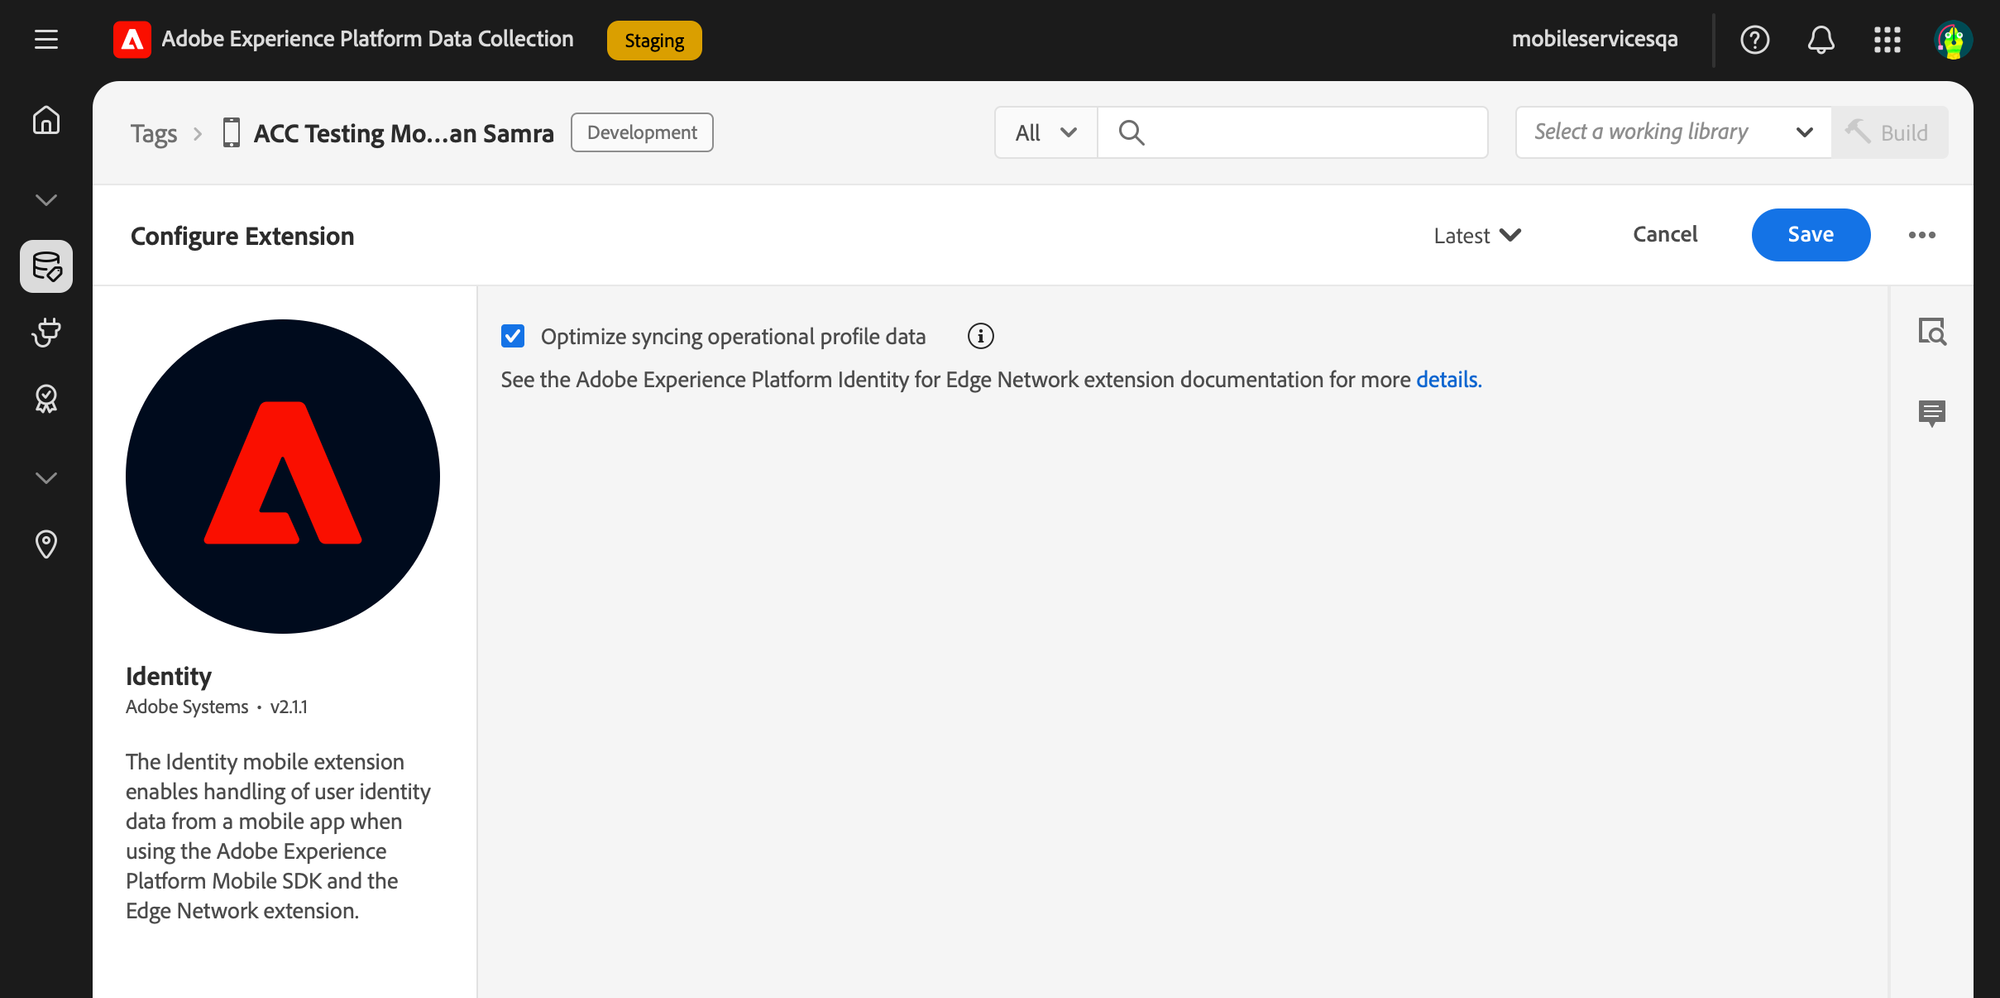
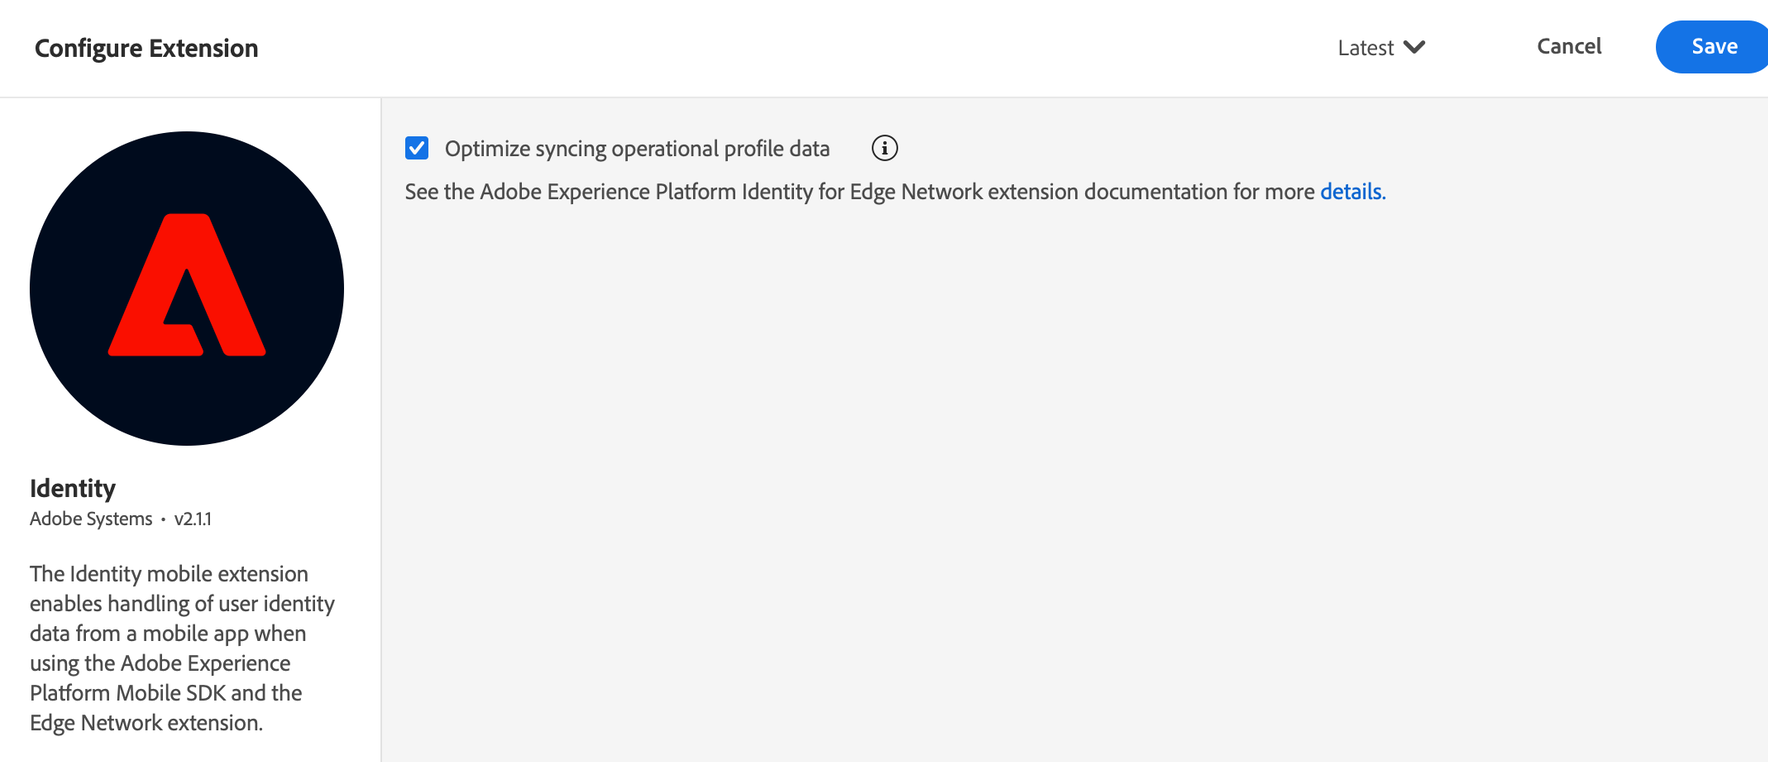
Make operational data docs customer-facing for the 2.1.1 release
Quote the shipped Identity tooltip and action copy, drop draft and negation notes, and replace the screenshots with cropped extension panels.

diff --git a/src/pages/edge/identity-for-edge-network/index.md b/src/pages/edge/identity-for-edge-network/index.md
@@ -17,31 +17,25 @@ Use the Identity for Edge Network extension when including the Edge Network exte
 
 1. In Data Collection UI, in your mobile property, select the **Extensions** tab.
 2. On the **Catalog** tab, locate or search for the **Identity** extension, and select **Install**.
-3. Starting with Tags extension version 2.1.1, select or clear **Optimize syncing operational profile data**. For details, see [Optimize syncing operational profile data](#optimize-syncing-operational-profile-data).
+3. Select or clear **Optimize syncing operational profile data**. The setting is selected by default. For details, see [Optimize syncing operational profile data](#optimize-syncing-operational-profile-data).
 4. Select **Save**.
 5. Follow the publishing process to update SDK configuration.
 
-![Identity for Edge Network extension configuration with the Optimize syncing operational profile data setting](./assets/index/configuration.png)
+![Identity for Edge Network extension configuration](./assets/index/configuration.png)
 
 ### Optimize syncing operational profile data
 
-Starting with Identity Tags extension version 2.1.1, the **Optimize syncing operational profile data** setting saves the boolean `edgeidentity.optimizeOperationalProfileDataSync` configuration key. The Tags UI selects the setting by default when no value has been saved. That Tags default is `true`. An explicitly saved `false` stays cleared.
+Identity Tags extension version 2.1.1 adds **Optimize syncing operational profile data**. The setting saves the boolean `edgeidentity.optimizeOperationalProfileDataSync` configuration key. The Tags UI selects the setting by default.
 
-<InlineAlert variant="info" slots="text"/>
-
-Version 2.1.1 is an unreleased Tags extension update, not an Android or iOS SDK version. Supporting SDK versions and the SDK's default and optimized-sync behavior must be confirmed before this documentation is published.
-
-<InlineAlert variant="info" slots="text"/>
-
-Earlier Identity Tags extensions had no configuration view. On the **Extensions** tab, explicitly upgrade the installed Identity extension to the configuration-bearing package, configure it, and select **Save**. Include the updated extension revision in your library before building. Reuploading a development package does not update an existing installation's configuration metadata. If the configuration still displays **No configuration necessary**, selecting **Save** alone will not repair the installation; contact support to check the installed extension metadata.
+The setting tooltip says: "When enabled, sync calls are optimized to avoid redundant edge API calls."
 
 #### Mobile SDK configuration APIs
 
-With an SDK version that supports this configuration key, you can also set it from your app using the [MobileCore.updateConfiguration](../../home/base/mobile-core/configuration/api-reference.md#updateconfiguration) API:
+You can also set the key from your app with the [MobileCore.updateConfiguration](../../home/base/mobile-core/configuration/api-reference.md#updateconfiguration) API:
 
 | Key | Required | Description | Data Type | Operating System |
 | :--- | :--- | :--- | :--- | :--- |
-| edgeidentity.optimizeOperationalProfileDataSync | No | Enables or disables operational-profile-data sync optimization. The Tags UI initializes this setting to `true`. SDK runtime behavior and minimum supporting versions require confirmation before release. | Boolean | Android/iOS |
+| edgeidentity.optimizeOperationalProfileDataSync | No | When enabled, sync calls are optimized to avoid redundant edge API calls. The Tags UI selects this setting by default. | Boolean | Android/iOS |
 
 ##### Android
 
@@ -61,31 +55,27 @@ MobileCore.updateConfigurationWith(configDict: config)
 
 Identity Tags extension version 2.1.1 adds **Sync Operational Data** under the **Attributes** event category in the rule builder. Select **Identity** as the event extension, then select **Sync Operational Data**. The event has no additional configuration.
 
-The event matches SDK events with type `com.adobe.eventType.generic.operationalData` and source `com.adobe.eventSource.requestContent`. Pair it with [Forward Operational Data to Edge Network](#forward-operational-data-to-edge-network) to configure the operational fields to forward.
-
-The Tags rule does not generate device values. An SDK version that emits this event and processes the action's path-based contract is required.
+The event matches SDK events with type `com.adobe.eventType.generic.operationalData` and source `com.adobe.eventSource.requestContent`. Pair it with [Forward Operational Data to Edge Network](#forward-operational-data-to-edge-network) to choose the operational fields to forward.
 
 ## Forward Operational Data to Edge Network
 
-Identity Tags extension version 2.1.1 adds **Forward Operational Data to Edge Network** to the rule builder. The action configures which operational fields a supporting SDK forwards to the Edge Network, including before consent is granted. It does not supply device values.
-
-The action is on Identity, not on the Edge Network extension. Edge Identity can dedupe and commit the operational data before Edge sends it.
+Identity Tags extension version 2.1.1 adds **Forward Operational Data to Edge Network**. The action says: "Forwards the selected operational data to the Edge Network. App ID and platform are always included."
 
 1. Add the [Sync Operational Data event](#sync-operational-data-rule-event) to your rule.
 2. Add an action, select **Identity**, then select **Forward Operational Data to Edge Network**.
 3. Select the fields to forward:
 
-| Setting | Initial selection | Backend paths |
+| Setting | Initial selection | Description |
 | :--- | :--- | :--- |
-| Timezone | Selected | `["timezone"]` |
-| Push token | Not selected | `["tokens", "pushNotification"]` |
-| Live Activity tokens | Not selected | `["tokens", "liveActivityStart"]` and `["tokens", "liveActivityUpdate"]` |
+| Timezone | Selected | The device time zone, so messages can be timed to the user's local hours. |
+| Push token | Not selected | The device push token, used to deliver push notifications to this device. |
+| Live Activity tokens | Not selected | The tokens that start and update Live Activities on the device's lock screen and Dynamic Island. Live Activity tokens are for iOS only. Android uses the regular push token; these fields do not apply. |
 
 4. Save the action and include the updated rule and extension revisions in your library.
 
 ![Forward Operational Data to Edge Network action configuration](./assets/index/forward-operational-data.png)
 
-One **Live Activity tokens** checkbox controls both token paths. Live Activity tokens apply to iOS only; Android uses the regular push token. App ID and platform are always included through the `["app"]` context. Saving with no fields selected is valid.
+One **Live Activity tokens** checkbox controls both the start and update token paths. Saving with no fields selected is valid.
 
 For example, selecting Timezone and Push token saves this action configuration:
 
@@ -105,13 +95,7 @@ For example, selecting Timezone and Push token saves this action configuration:
 }
 ```
 
-Tags supplies the outer consequence type, `forward-operational-data`, from the action definition. All four attribute entries are saved, including disabled entries. A selection that has no value is saved as `enabled: false`, not `null`. The SDK uses the backend paths to find values in the incoming event.
-
-<InlineAlert variant="info" slots="text"/>
-
-Version 2.1.1 is an unreleased Tags extension update, not an Android or iOS SDK version. Minimum SDK versions supporting the event and path-based action contract must be confirmed before this documentation is published. Uploading the Tags extension alone does not implement SDK delivery.
-
-If you tested an earlier development version of this action, including one saved on the Edge Network extension, open and resave it on Identity to migrate interim token-template or boolean settings to the path-based contract. Reuploading an extension package does not rewrite saved rules.
+Unchecked fields remain in the saved configuration as `enabled: false`. The SDK uses these paths to read values from the incoming operational-data event.
 
 ## Add the Identity For Edge Network extension to your app
 

diff --git a/src/pages/edge/identity-for-edge-network/release-notes.md b/src/pages/edge/identity-for-edge-network/release-notes.md
@@ -9,18 +9,15 @@ keywords:
 
 # Release notes
 
-## Unreleased
+## October 19, 2026
 
 ### Identity Tags extension 2.1.1
 
-* Adds **Optimize syncing operational profile data**, saved as the boolean `edgeidentity.optimizeOperationalProfileDataSync` configuration key. The Tags UI selects it by default.
+* Adds **Optimize syncing operational profile data**, saved as the boolean `edgeidentity.optimizeOperationalProfileDataSync` configuration key. The Tags UI selects it by default. When enabled, sync calls are optimized to avoid redundant edge API calls.
 * Adds the **Sync Operational Data** rule event under **Attributes**. The event matches `com.adobe.eventType.generic.operationalData` / `com.adobe.eventSource.requestContent` and has no additional configuration.
-* Adds the **Forward Operational Data to Edge Network** rule action, with Timezone, Push token, and Live Activity tokens selections. One Live Activity tokens checkbox controls both start and update paths. Saving with no selections is valid.
-* Packages the configuration setting, event, and action in one minor release, upgrading the Tags extension from 2.0.0 to 2.1.1.
+* Adds the **Forward Operational Data to Edge Network** rule action. The action forwards the selected operational data to the Edge Network. App ID and platform are always included. Selections are Timezone, Push token, and Live Activity tokens. One Live Activity tokens checkbox controls both start and update paths. Saving with no selections is valid.
 
-<InlineAlert variant="info" slots="text"/>
-
-The release date and minimum supporting SDK versions remain pending. This is a Tags extension version, not an SDK release. See the [configuration](index.md#configure-the-identity-extension-in-the-data-collection-ui) and [action](index.md#forward-operational-data-to-edge-network) instructions.
+See the [configuration](index.md#configure-the-identity-extension-in-the-data-collection-ui) and [action](index.md#forward-operational-data-to-edge-network) instructions.
 
 ## July 8, 2026
 

diff --git a/src/pages/home/release-notes/index.md b/src/pages/home/release-notes/index.md
@@ -7,26 +7,21 @@ Keywords:
 
 # Release notes
 
-## Unreleased
-
-### Edge Network Tags extension 2.1.1
-
-* Does not add the operational-data action. That action ships on Identity Tags extension 2.1.1.
-* Upgrades from 2.0.1 to 2.1.1. Development iterations are not separate customer releases.
-
-See the [Edge Network Tags extension release notes](../../edge/edge-network/release-notes.md).
+## October 19, 2026
 
 ### Identity Tags extension 2.1.1
 
-* Adds **Optimize syncing operational profile data**, saved as `edgeidentity.optimizeOperationalProfileDataSync`. The Tags UI selects it by default.
-* Adds the **Sync Operational Data** rule event, packaged with the new configuration view.
-* Adds the **Forward Operational Data to Edge Network** rule action for Timezone, Push token, and Live Activity tokens.
+* Adds **Optimize syncing operational profile data**, saved as `edgeidentity.optimizeOperationalProfileDataSync`. The Tags UI selects it by default. When enabled, sync calls are optimized to avoid redundant edge API calls.
+* Adds the **Sync Operational Data** rule event under **Attributes**.
+* Adds the **Forward Operational Data to Edge Network** rule action for Timezone, Push token, and Live Activity tokens. App ID and platform are always included.
 
 See the [Identity Tags extension release notes](../../edge/identity-for-edge-network/release-notes.md).
 
-<InlineAlert variant="info" slots="text"/>
+### Edge Network Tags extension 2.1.1
 
-These are planned Tags extension releases, not Android or iOS SDK versions. Release dates, minimum supporting SDK versions, and Identity SDK default behavior remain pending confirmation. Mobile Core has no new Tags extension release in this update.
+* Releases Tags extension version 2.1.1.
+
+See the [Edge Network Tags extension release notes](../../edge/edge-network/release-notes.md).
 
 ## September 30, 2026
 

diff --git a/src/pages/edge/edge-network/index.md b/src/pages/edge/edge-network/index.md
@@ -49,12 +49,6 @@ If you have a first-party domain mapped to the Adobe-provisioned Edge Network do
 
 **Note:** The domain name is expected to be just the domain without any protocol or trailing slashes. If no domain is provided, by default the `edge.adobedc.net` domain is used.
 
-## Forward Operational Data rule action
-
-The **Forward Operational Data to Edge Network** action is not part of the Edge Network extension. Identity for Edge Network Tags extension version 2.1.1 adds it.
-
-Configure the action on [Identity for Edge Network](../identity-for-edge-network/index.md#forward-operational-data-to-edge-network). If a development rule used an earlier upload of this action on Edge Network, recreate that rule on Identity. Reuploading the Edge Network package does not move a saved rule.
-
 ## Add the Edge Network extension to your app
 
 ### Include Edge Network extension as an app dependency

diff --git a/src/pages/edge/edge-network/release-notes.md b/src/pages/edge/edge-network/release-notes.md
@@ -8,16 +8,11 @@ keywords:
 
 # Release notes
 
-## Unreleased
+## October 19, 2026
 
 ### Edge Network Tags extension 2.1.1
 
-* Does not add the **Forward Operational Data to Edge Network** action. That action ships on Identity Tags extension 2.1.1.
-* Upgrades the Tags extension from 2.0.1 to 2.1.1. Development payload iterations are not separate customer releases.
-
-<InlineAlert variant="info" slots="text"/>
-
-The release date and minimum supporting SDK versions remain pending. This is a Tags extension version, not an SDK release. See the [Identity action configuration](../identity-for-edge-network/index.md#forward-operational-data-to-edge-network).
+* Releases Tags extension version 2.1.1.
 
 ## September 29, 2026
 
